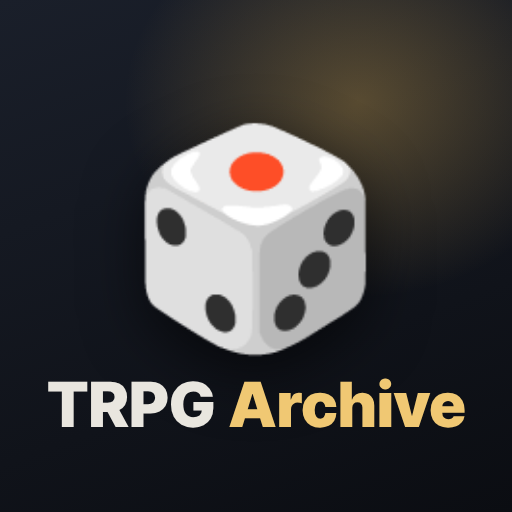
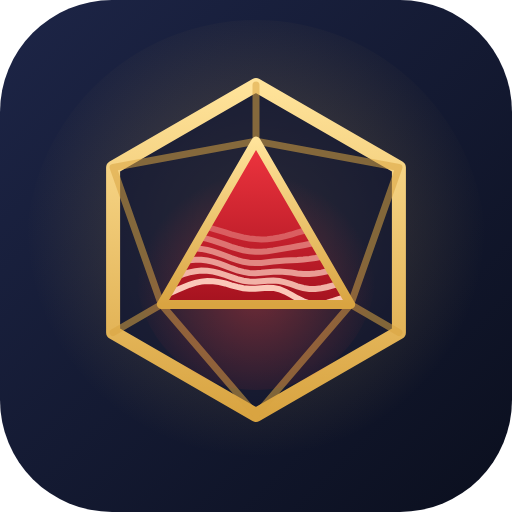
아이콘 교체: 황금 D20 안 빨간 삼각형 (A-2), 썸네일·로비 제목에도 반영
Claude-Session: https://claude.ai/code/session_01PnVN5ht4LP48EXmahfbswn

diff --git a/index.html b/index.html
@@ -8,12 +8,12 @@
 <meta property="og:type" content="website">
 <meta property="og:title" content="TRPG Archive">
 <meta property="og:description" content="말하면 기록되고, 기록은 이야기가 된다 · 실시간 받아쓰기 · 자동 요약 · 북마크 · 다음 할 일">
-<meta property="og:image" content="https://praypeace.github.io/TRPG_Archive/og.png?v=20261121">
+<meta property="og:image" content="https://praypeace.github.io/TRPG_Archive/og.png?v=20261121b">
 <meta property="og:image:width" content="1200"><meta property="og:image:height" content="630">
 <meta name="twitter:card" content="summary_large_image">
 <meta name="theme-color" content="#d6a84e">
-<link rel="icon" type="image/png" href="icon.png">
-<link rel="apple-touch-icon" href="icon.png">
+<link rel="icon" type="image/png" href="icon.png?v=2">
+<link rel="apple-touch-icon" href="icon.png?v=2">
 <link rel="stylesheet" href="https://cdn.jsdelivr.net/gh/orioncactus/pretendard@v1.3.9/dist/web/variable/pretendardvariable-dynamic-subset.min.css">
 <style>
 :root{
@@ -484,7 +484,7 @@ button.icon:hover{color:var(--txt);border-color:var(--line2)}
     <div class="lb-notch"></div>
     <div class="lb-sbar"><span id="lTime1">00:00</span><span class="lb-ic" id="lBat"></span></div>
     <div class="lb-home">
-      <div class="lb-ttl"><span>🎲 TRPG Archive</span><span id="lHubName" style="font-weight:500;opacity:.8"></span><span class="grow"></span><span id="lHomeNote" style="font-weight:500;opacity:.8"></span></div>
+      <div class="lb-ttl"><span style="display:inline-flex;align-items:center;gap:6px"><img src="icon.png?v=2" alt="" style="width:18px;height:18px;border-radius:5px">TRPG Archive</span><span id="lHubName" style="font-weight:500;opacity:.8"></span><span class="grow"></span><span id="lHomeNote" style="font-weight:500;opacity:.8"></span></div>
       <div class="lb-wid hide" id="lCred"></div>
       <div class="lb-grid" id="lGrid"></div>
       <div class="lb-dock" id="lDock"></div>
